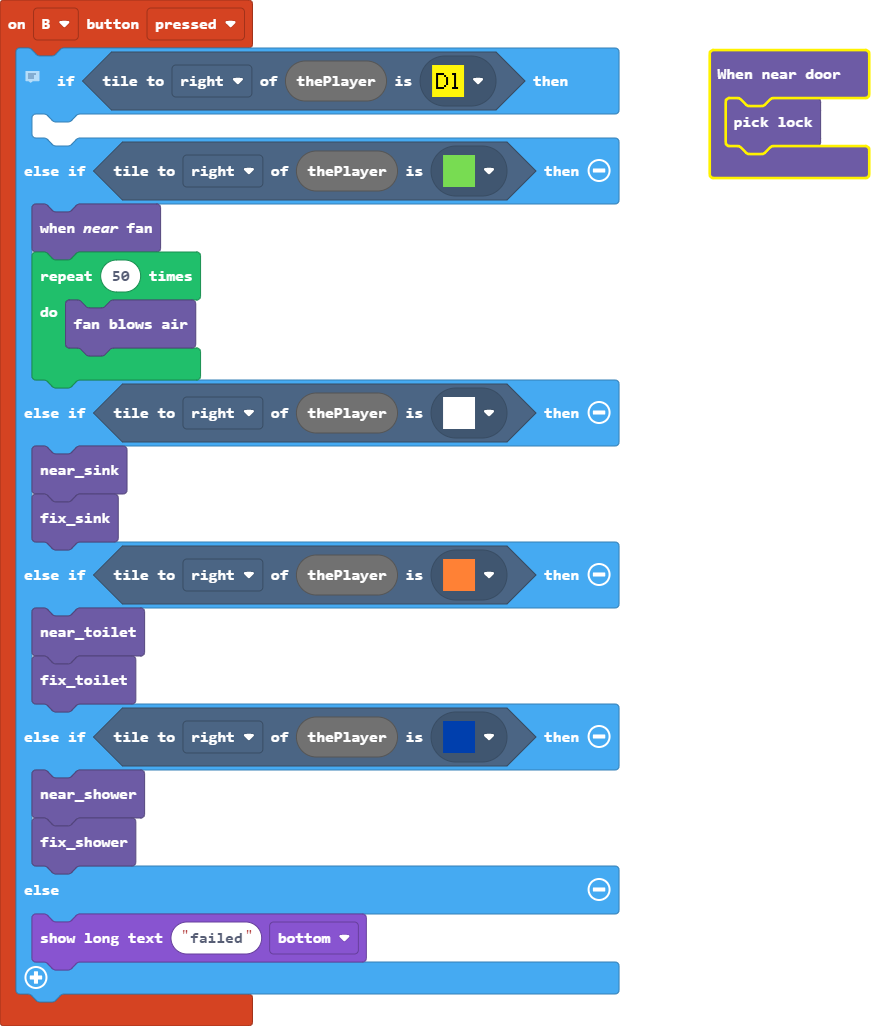
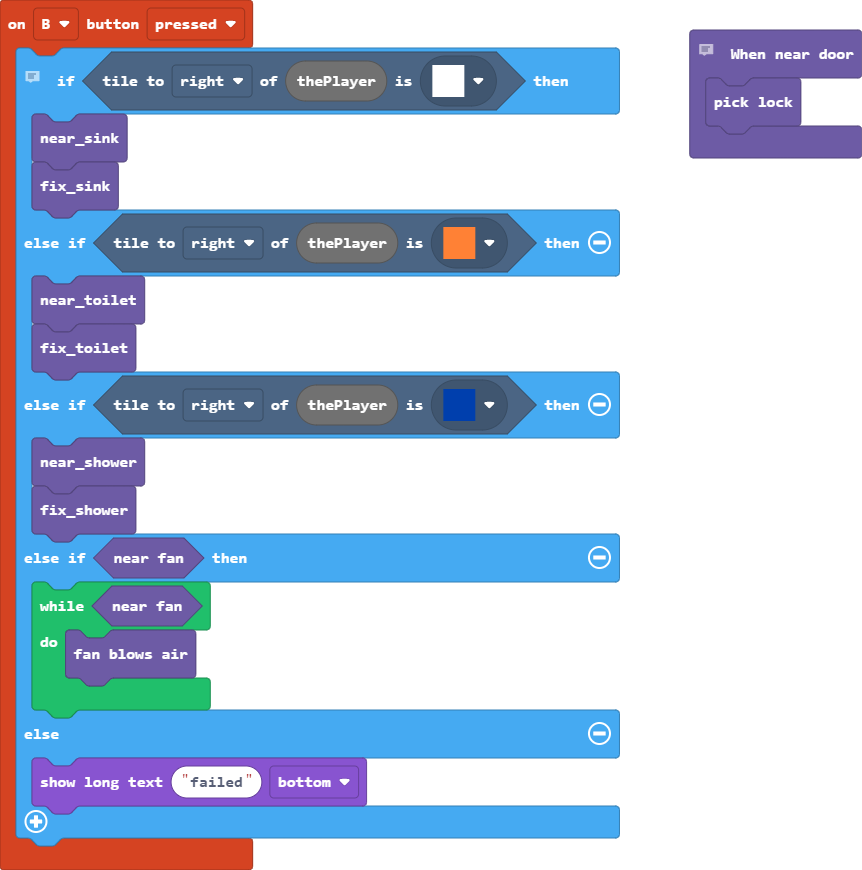
made 'near fan' return boolean

diff --git a/extension.ts b/extension.ts
@@ -4,31 +4,6 @@ namespace SpriteKind {
     export const Fan = SpriteKind.create()
     export const BrokenAppliance = SpriteKind.create()
 }
-/**
- * functions to turn into blocks
- */
-/**
- * GOAL --
- * 
- * while NEAR FAN
- * 
- *      fanBlowsAir
- */
-/**
- * GOAL --
- * 
- * if (near sink) 
- * 
- *      fix sink
- * 
- * else if (near shower)
- * 
- *      fix shower
- * 
- * else if (near toilet)
- * 
- *      fix toilet
- */
 
 sprites.onOverlap(SpriteKind.Projectile, SpriteKind.DustBunny, function (sprite, otherSprite) {
     otherSprite.setVelocity(0, 50)
@@ -93,11 +68,34 @@ controller.A.onEvent(ControllerButtonEvent.Pressed, function () {
 scene.onOverlapTile(SpriteKind.Player, myTiles.tile11, function (sprite, location) {
     tiles.placeOnTile(thePlayer, tiles.getTileLocation(17, 5))
     createDustBunnies()
+    createFan()
 })
 
 function challenge3 () {
     game.showLongText("The sink, the toilet, and the shower are flooded!", DialogLayout.Bottom)
     game.showLongText("You'll have to fix each to stop the flooding.", DialogLayout.Bottom)
+}
+
+function createFan () {
+    fan = sprites.create(img`
+                7 7 7 7 7 7 7 7 7 7 7 7 7 7 7 7 
+                7 7 7 7 7 7 7 7 7 7 7 7 7 7 7 7 
+                7 7 7 7 7 7 7 7 7 7 7 7 7 7 7 7 
+                7 7 7 7 7 7 7 7 7 7 7 7 7 7 7 7 
+                7 7 7 7 7 7 7 7 7 7 7 7 7 7 7 7 
+                7 7 7 7 7 7 7 7 7 7 7 7 7 7 7 7 
+                7 7 7 7 7 7 7 7 7 7 7 7 7 7 7 7 
+                7 7 7 7 7 7 7 7 7 7 7 7 7 7 7 7 
+                7 7 7 7 7 7 7 7 7 7 7 7 7 7 7 7 
+                7 7 7 7 7 7 7 7 7 7 7 7 7 7 7 7 
+                7 7 7 7 7 7 7 7 7 7 7 7 7 7 7 7 
+                7 7 7 7 7 7 7 7 7 7 7 7 7 7 7 7 
+                7 7 7 7 7 7 7 7 7 7 7 7 7 7 7 7 
+                7 7 7 7 7 7 7 7 7 7 7 7 7 7 7 7 
+                7 7 7 7 7 7 7 7 7 7 7 7 7 7 7 7 
+                7 7 7 7 7 7 7 7 7 7 7 7 7 7 7 7 
+        `, SpriteKind.Fan)
+    tiles.placeOnRandomTile(fan, myTiles.tile12)
 }
 
 function createDustBunnies () {
@@ -127,7 +125,7 @@ function createDustBunnies () {
 }
 scene.onOverlapTile(SpriteKind.Player, myTiles.tile13, function (sprite, location) {
     tiles.placeOnTile(thePlayer, tiles.getTileLocation(33, 5))
-    fanOn = false
+    //fanOn = false
     sinkIsFixed = false
     toiletIsFixed = false
     showerIsFixed = false
@@ -137,12 +135,12 @@ function challenge2 () {
     game.showLongText("Watch out! Some evil dust bunnies are blocking the door!", DialogLayout.Bottom)
     game.showLongText("If you run into them, you might choke on the dust.", DialogLayout.Bottom)
     game.showLongText("You'll need to defeat them before going to the next room.", DialogLayout.Bottom)
-    fanOn = false
+    //fanOn = false
 }
 // add intro, instructions
 let projectile: Sprite = null
 let fan: Sprite = null
-let fanOn = false
+//let fanOn = false
 let toiletIsFixed = false
 let sinkIsFixed = false
 let talkedToBear = false

diff --git a/name.ts b/name.ts
@@ -5,52 +5,25 @@ namespace hoc {
     export function nearDoor(handler: () => void) {
         tileHandler = handler
     }
-    //% block="When near door"
-    // export function when_near_door() { 
-    //     if (thePlayer.tileKindAt(TileDirection.Right, myTiles.tile5)) {
-    //         nearDoor = true
-    //     }
-    // }
+    
     //%block
     export function pickLock () {
         // replace if with 'when near door'
         tiles.setTileAt(tiles.getTileLocation(9, 5), myTiles.tile11)
         tiles.setWallAt(tiles.getTileLocation(9, 5), false)
-        // if (nearDoor) {
-        //     tiles.setTileAt(tiles.getTileLocation(9, 5), myTiles.tile11)
-        //     tiles.setWallAt(tiles.getTileLocation(9, 5), false)
-        // } else {
-        //     game.showLongText("The door is still locked", DialogLayout.Bottom)
-        // }
     }
-    //%block
-    export function when_near_fan () {
-        if (thePlayer.tileKindAt(TileDirection.Right, myTiles.tile12) || (thePlayer.tileKindAt(TileDirection.Top, myTiles.tile12) || thePlayer.tileKindAt(TileDirection.Left, myTiles.tile12))) {
-            fanOn = true
+    
+    //%block="near fan"
+    export function nearFan(): boolean { //(handler: () => void) {
+        if (thePlayer.tileKindAt(TileDirection.Right, myTiles.tile12)) {
+            return true;
         }
+        return false;
     }
+
     //%block
     export function fanBlowsAir () {
-        if (fanOn) {
-            fan = sprites.create(img`
-                7 7 7 7 7 7 7 7 7 7 7 7 7 7 7 7 
-                7 7 7 7 7 7 7 7 7 7 7 7 7 7 7 7 
-                7 7 7 7 7 7 7 7 7 7 7 7 7 7 7 7 
-                7 7 7 7 7 7 7 7 7 7 7 7 7 7 7 7 
-                7 7 7 7 7 7 7 7 7 7 7 7 7 7 7 7 
-                7 7 7 7 7 7 7 7 7 7 7 7 7 7 7 7 
-                7 7 7 7 7 7 7 7 7 7 7 7 7 7 7 7 
-                7 7 7 7 7 7 7 7 7 7 7 7 7 7 7 7 
-                7 7 7 7 7 7 7 7 7 7 7 7 7 7 7 7 
-                7 7 7 7 7 7 7 7 7 7 7 7 7 7 7 7 
-                7 7 7 7 7 7 7 7 7 7 7 7 7 7 7 7 
-                7 7 7 7 7 7 7 7 7 7 7 7 7 7 7 7 
-                7 7 7 7 7 7 7 7 7 7 7 7 7 7 7 7 
-                7 7 7 7 7 7 7 7 7 7 7 7 7 7 7 7 
-                7 7 7 7 7 7 7 7 7 7 7 7 7 7 7 7 
-                7 7 7 7 7 7 7 7 7 7 7 7 7 7 7 7 
-                `, SpriteKind.Fan)
-            tiles.placeOnRandomTile(fan, myTiles.tile12)
+        for (let i = 0; i < 5; i++) {
             projectile = sprites.createProjectileFromSprite(img`
                 . . . . . . . . . . . . . . . . 
                 . . . . . . . 9 . . . . . . . . 
@@ -68,9 +41,9 @@ namespace hoc {
                 . . . . . . . 9 . . 9 . 9 9 . . 
                 . . . . . . . 9 9 . . . 9 . . . 
                 . . . . . . . . 9 9 9 9 9 . . . 
-                `, fan, 0, 50)
+            `, fan, 0, 50)
+            pause(200)
         }
-        pause(200)
     }
     //%block
     export function near_sink () {

diff --git a/main.ts b/main.ts
@@ -1,13 +1,6 @@
 controller.B.onEvent(ControllerButtonEvent.Pressed, function () {
     // hoc.when_near_door()
-    if (thePlayer.tileKindAt(TileDirection.Right, myTiles.tile5)) {
-    	
-    } else if (thePlayer.tileKindAt(TileDirection.Right, myTiles.tile12)) {
-        hoc.when_near_fan()
-        for (let index = 0; index < 50; index++) {
-            hoc.fanBlowsAir()
-        }
-    } else if (thePlayer.tileKindAt(TileDirection.Right, myTiles.tile15)) {
+    if (thePlayer.tileKindAt(TileDirection.Right, myTiles.tile15)) {
         hoc.near_sink()
         hoc.fix_sink()
     } else if (thePlayer.tileKindAt(TileDirection.Right, myTiles.tile16)) {
@@ -16,10 +9,19 @@ controller.B.onEvent(ControllerButtonEvent.Pressed, function () {
     } else if (thePlayer.tileKindAt(TileDirection.Right, myTiles.tile17)) {
         hoc.near_shower()
         hoc.fix_shower()
+    } else if (hoc.nearFan()) {
+        while (hoc.nearFan()) {
+            hoc.fanBlowsAir()
+        }
     } else {
         game.showLongText("failed", DialogLayout.Bottom)
     }
 })
+// hoc.nearFan(function () {
+// for (let index = 0; index < 50; index++) {
+// hoc.fanBlowsAir()
+// }
+// })
 hoc.nearDoor(function () {
     hoc.pickLock()
 })
